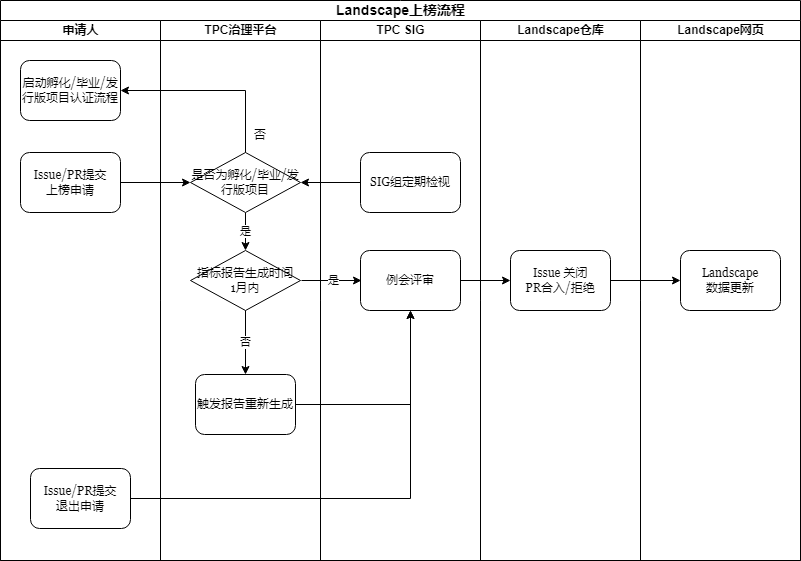
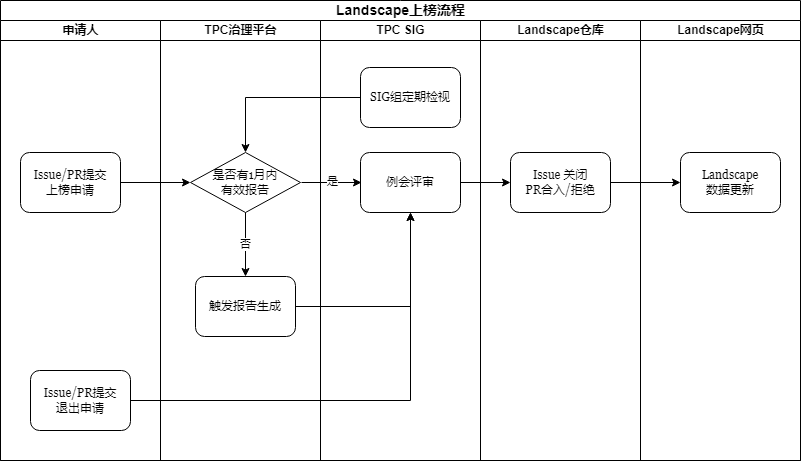
Updata landscape.md

diff --git a/landscape.md b/landscape.md
@@ -112,7 +112,7 @@ OpenHarmony社区对于三方库组件根据其开源社区和软件制品的成
 | 生命周期 | Release Notes | 中 | 项目Release Notes检查: 项目版本发布需在特定位置包含Release Notes，提供清晰明了的版本变更说明。 | 设置评分，满足10分，不满足0分 |
 | |
 
-**发行版项目**是OpenHarmony生态重要组成部分，其代表着三方库中最为核心的项目集合，同时提供功能性、稳定性和安全性保障。三方库**毕业项目**通过提交发行版认证流程并通过特定检查和TPC SIG审批后将被认证为发行版项目。OpenHarmony社区将维护三方库发行版项目清单并通过该Landscape对外展示。发行版涉及的检查指标及具体要求如下：
+**发行版项目**是OpenHarmony生态重要组成部分，其代表着三方库中最为核心的项目集合，同时提供功能性、稳定性和安全性保障。三方库项目通过提交发行版认证流程并通过特定检查（在毕业项目要求上增加额外检查和要求）和TPC SIG审批后将被认证为发行版项目。OpenHarmony社区将维护三方库发行版项目清单并通过该Landscape对外展示。发行版涉及的检查指标及具体要求如下：
 
 | 维度 | 指标 | 要求 |
 |:-------:|:-------:|:-------:|
@@ -121,10 +121,10 @@ OpenHarmony社区对于三方库组件根据其开源社区和软件制品的成
 | 合法合规 | 专利风险 | 对项目涉及的技术进行专利检索，确保项目的实现过程以及所包含的算法、架构等内容不存在侵犯他人专利的风险。如果项目使用了某些可能涉及专利的技术，需要提供相应的授权证明或者说明使用场景符合专利的合理使用范围 |
 | 合法合规 | 数据合规 | 若项目涉及数据收集、存储、处理和传输，必须遵守相关的数据保护法律法规。对于收集用户数据的开源项目，需要明确告知用户数据收集的目的、范围，并且获得用户的同意（如果适用）。数据存储过程应确保数据的安全性和保密性，数据传输过程要符合加密等安全要求 |
 | 网络安全 | 软件包签名 | 项目发布软件包包含数据签名并提供校验工具，保障下载包的完整可靠 |
-| 网络安全 | 测试覆盖率 | 项目建立完善的测试机制（测试框架和用例），单元测试覆盖率大于80%，并提供自动化检测工具/服务 |
 | 网络安全 | 安全漏洞 | 项目及依赖源码无公开已知未修复漏洞 |
 | 网络安全 | 漏洞响应 | 设立漏洞反馈渠道（如Issue 漏洞标签、漏洞反馈邮箱、论坛漏洞版块等），对用户的反馈进行及时回复和处理 |
 | 技术生态 | 代码规范 | 项目代码严格遵循统一的代码风格规范，如命名规则、缩进格式等，并且有自动化工具来检查和维护代码风格的一致性 |
+| 技术生态 | 测试覆盖率 | 项目建立完善的测试机制（测试框架和用例），单元测试覆盖率大于80%，并提供自动化检测工具/服务 |
 | 技术生态 | 社区响应 | 项目对过去90天内用户反馈问题（特性需求、Bug、使用指导、文档问题等）有效响应比例大于80% |
 | 技术生态 | 文档赋能 | 项目应提供包含安装部署、社区贡献、编码要求、构建、测试等高质量文档 |
 | 技术生态 | OpenHarmony兼容性 | 项目需通过至少一个OpenHarmony操作系统正式版本的兼容性测试 |
@@ -135,22 +135,21 @@ OpenHarmony社区对于三方库组件根据其开源社区和软件制品的成
 
 各阶段成熟度要求及评估指标在三方库社区文档同样可见：[孵化项目指标](https://gitee.com/openharmony-tpc/docs/blob/master/tpc-governance-platform-user-guide.md#%E5%AD%B5%E5%8C%96%E9%A1%B9%E7%9B%AE%E6%8C%87%E6%A0%87%E5%AD%97%E5%85%B8)、[毕业项目指标](https://gitee.com/openharmony-tpc/docs/blob/master/tpc-governance-platform-user-guide.md#%E6%AF%95%E4%B8%9A%E9%A1%B9%E7%9B%AE%E6%8C%87%E6%A0%87%E5%AD%97%E5%85%B8)、[发行版项目指标](TODO)。  
 
-OSI批准License和宽松型License可参考业界事件：[SPDX License List](https://spdx.org/licenses/)和[scancode-licensedb](https://scancode-licensedb.aboutcode.org/)。
+OSI批准License和宽松型License可参考业界实践：[SPDX License List](https://spdx.org/licenses/)和[scancode-licensedb](https://scancode-licensedb.aboutcode.org/)。
 
 ## Landscape 管理
 三方库全景图鼓励支持开源鸿蒙操作系统的开源项目申请加入，同时保留退出审视机制，保持全景图的动态更新和活力。其管理相关流程如下：
 
-![imag](./assets/landscape_process.png)
+![imag](./logos/landscape_process.png)
 
 ### 项目上榜及退出
 #### 项目上榜规则及流程
-全景图申请上榜项目需已在TPC SIG完成孵化项目、毕业项目、发行版项目认证，由项项目责任人/维护者通过社区提交上榜申请后由TPC SIG对上榜要求进行检查后确定，通过PR形式提交上榜请求，系统自动完成指标数据获取（对于），TPC SIG负责PR评审；
+全景图申请上榜项目若已在TPC SIG完成孵化项目、毕业项目、发行版项目认证，项目责任人/维护者通过社区提交上榜申请后将会由平台自动获得一个月内检查报告（若已有报告生成日期超过1月则重新生成），若非TPC SIG已认证项目，通过PR形式提交上榜请求后系统自动完成指标数据获取（按照毕业项目和发行版项目指标检查），最终TPC SIG负责PR评审；
 
 #### 项目退出规则及流程
 全景图上榜项目设置退出机制，TPC SIG负责定期审视未满足要求项目，项目责任人/维护者也可主动发起退出申请流程：  
 主动申请退出：通过Issue/PR发起申请，TPC SIG 负责评审和确保退出决定符合相关准则和标准；  
 TPC SIG定期检视：SIG组将定期（通常为每月）对所有上榜项目进行检视，确保项目仍符合适配、稳定性、安全和合规等要求。不满足将被移除；
-
 
 ### 数据维护与呈现
 全景图将定期更新项目数据，并对错误信息及时修正。
